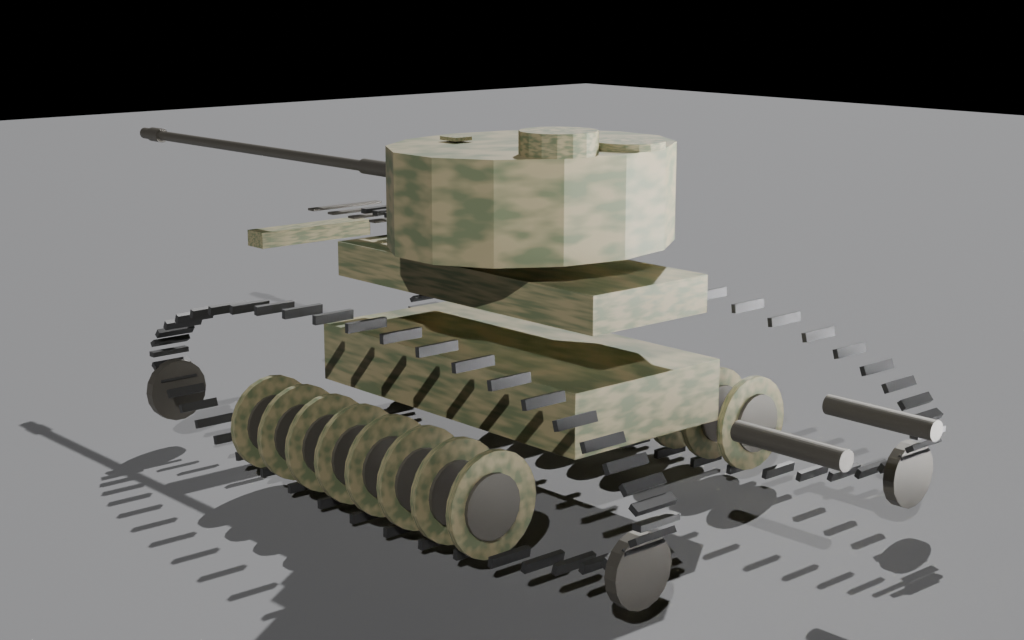
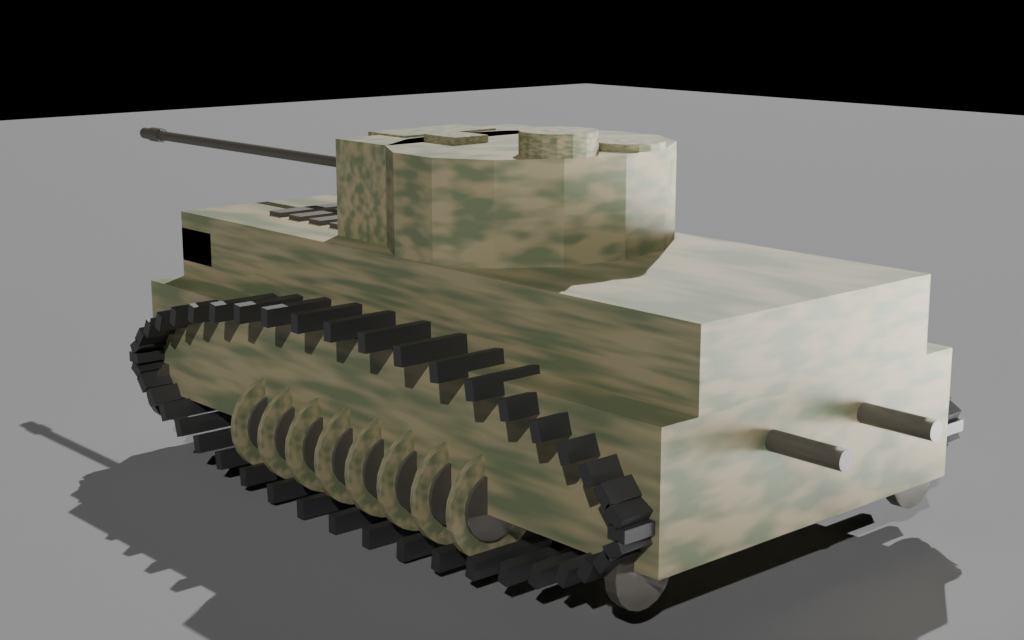
feat(fusion): 管线×视觉×RAG 三环融合落地——intake 域模板化 + 谓词执行器 + NLG 带化
intake.py：DOMAIN_BANK 加坦克分册（length_real/front_armor/roadwheel_per_side/gun_caliber/turret_rotate/camo_scheme/weathering_level——修马克杯问题卡缺陷）+ _match_topic 域匹配（brief 含坦克/tank/装甲/虎式→坦克分册）。tiger_tank_build.py：box 尺寸语义修复（dimensions==scale）+ gate 谓词执行器 v0（hull_length/hull_height_total/roadwheel_count 三道门+band 带化判词）+ RAG record_ai 16 条沉淀+recall 冷启动+状态机回写+幂等门通过。nlg_bands.py：谓词 diff→中文带化判词（<2% 带内/2-10% 一点/10-30% 明显）。

diff --git a/blender_console/intake.py b/blender_console/intake.py
@@ -26,8 +26,30 @@ __all__ = ["IntakeSession", "DOMAIN_BANK"]
 MODES = ("direct", "quick", "full", "unlimited")
 _DOMAINS = ("物理", "功能", "视觉", "工程", "叙事")
 
+
+def _match_topic(brief: str) -> str:
+    """brief 关键词 → 域前缀（""= 默认马克杯域；"坦克"= 坦克分册）。M6 域模板化。"""
+    b = (brief or "").lower()
+    if "坦克" in b or "tank" in b or "装甲" in b or "虎式" in b:
+        return "坦克"
+    return ""
+
 # ── 域问题库（通用骨架；具体项目可替换）─────────────────────
 DOMAIN_BANK: dict[str, list[dict[str, Any]]] = {
+    "坦克物理": [
+        {"field": "length_real", "question": "车体长度（不含炮管）？",
+         "default": 6320, "unit": "mm", "range": [5000, 8000],
+         "why": "虎式 6.32m 实尺"},
+        {"field": "front_armor", "question": "正面装甲厚度？",
+         "default": 102, "unit": "mm", "range": [80, 120],
+         "why": "虎式正面 102mm 垂直装甲"},
+        {"field": "roadwheel_per_side", "question": "单侧负重轮数（交错排列）？",
+         "default": 8, "unit": "只", "range": [6, 10],
+         "why": "虎式 Schachtellaufwerk 8/侧"},
+        {"field": "gun_caliber", "question": "主炮口径？",
+         "default": 88, "unit": "mm", "range": [75, 128],
+         "why": "KwK.36 L/56 88mm"},
+    ],
     "物理": [
         {"field": "size_height", "question": "整体高度大约多少？",
          "default": 0.095, "unit": "m", "range": [0.02, 0.5],
@@ -36,9 +58,21 @@ DOMAIN_BANK: dict[str, list[dict[str, Any]]] = {
          "default": 0.004, "unit": "m", "range": [0.002, 0.02],
          "why": "4mm 兼顾手感与保温"},
     ],
+    "坦克功能": [
+        {"field": "turret_rotate", "question": "炮塔可旋转吗？",
+         "default": True, "why": "坦克炮塔360度"},
+        {"field": "hatch_open", "question": "舱门可开吗？",
+         "default": True, "why": "指挥官舱门+装填手舱门"},
+    ],
     "功能": [
         {"field": "with_lid", "question": "需要盖子吗？",
          "default": False, "options": [True, False], "why": "多数马克杯不带盖"},
+    ],
+    "坦克视觉": [
+        {"field": "camo_scheme", "question": "涂装方案？",
+         "default": "Dunkelgelb+Olivgrun", "why": "1944 后期型涂装"},
+        {"field": "weathering_level", "question": "旧化程度？",
+         "default": "medium", "why": "履带锈蚀+排气烟熏是虎式特征"},
     ],
     "视觉": [
         {"field": "handle_style", "question": "把手什么形态？",
@@ -76,8 +110,9 @@ class IntakeSession:
         self.parts = parts or ["mug"]     # 部件路径（M7-2 part 的来源）
         self.scene_facts = dict(scene_facts or {})
         self.fields: dict[str, dict[str, Any]] = {}   # field → {value, origin, why}
-        self.domain_done: dict[str, int] = {d: 0 for d in _DOMAINS}
-        self.domain_state = {d: "open" for d in _DOMAINS}
+        self.topic = _match_topic(brief)
+        self.domain_done: dict[str, int] = {f"{self.topic}{d}": 0 for d in _DOMAINS}
+        self.domain_state = {f"{self.topic}{d}": "open" for d in _DOMAINS}
         self.round = 0
         self.frozen = False
         self.frozen_at = ""
@@ -93,9 +128,10 @@ class IntakeSession:
     def _pending_questions(self) -> list[dict[str, Any]]:
         out: list[dict[str, Any]] = []
         for dom in _DOMAINS:
-            if self.domain_state[dom] == "done":
+            key = f"{self.topic}{dom}"
+            if self.domain_state.get(key, "open") == "done":
                 continue
-            for q in DOMAIN_BANK.get(dom, []):
+            for q in DOMAIN_BANK.get(key, []):
                 f = q["field"]
                 if f in self.fields:
                     continue

diff --git a/blender_console/nlg_bands.py b/blender_console/nlg_bands.py
@@ -1,0 +1,68 @@
+"""nlg_bands.py — 谓词 diff → 中文带化判词（NLG v0，纯模板零 LLM）
+================================================================================
+依据：深度调研《NLG_几何变更描述》——数值带化（NWS 式阈值表）+ 多谓词融合 +
+"模板保真、LLM 润色后置"。本模块只做**确定性模板**，不调 LLM（回查零幻觉）。
+
+带化规则（|rel| 相对变化）：
+  <2%   → 带内（不主动报）
+  2-10% → 偏移一点
+  10-30% → 明显偏离
+  >30%  → 大幅偏离
+"""
+from __future__ import annotations
+
+import json
+from typing import Any
+
+__all__ = ["band_of", "verdict_zh", "verdict_report"]
+
+_BANDS = ((0.02, "带内"), (0.10, "偏移一点"), (0.30, "明显偏离"), (float("inf"), "大幅偏离"))
+
+
+def band_of(rel: float) -> str:
+    """相对变化 → 带化措辞（人类惯例：先模糊后精确，档位 ≈3）"""
+    a = abs(rel)
+    for hi, word in _BANDS:
+        if a < hi:
+            return word
+    return _BANDS[-1][1]
+
+
+def verdict_zh(pred: dict[str, Any]) -> str:
+    """单条谓词 → 一句中文判词（模板槽位：谓词名/实际/期望/带化）"""
+    name = pred.get("predicate", "?")
+    actual = pred.get("actual_mm", pred.get("actual", "?"))
+    expect = pred.get("expect_mm", pred.get("expect", "?"))
+    rel = pred.get("rel_pct")
+    ok = pred.get("ok", True)
+    if not ok:
+        return f"[FAIL] {name}: 实测 {actual}，期望 {expect}（{pred.get('band', '超差')}）"
+    if rel is not None and abs(rel) >= 2:
+        return f"{name}: {actual}（期望 {expect}，{pred.get('band', '带内')} {rel:+.1f}%）"
+    return f"{name}: {actual}（带内）"
+
+
+def verdict_report(preds: list[dict[str, Any]]) -> str:
+    """谓词清单 → 多行判词报告（问题类排前，尺寸类其次——NLG 调研优先级规则）"""
+    if not preds:
+        return "(无谓词结果)"
+    fails = [p for p in preds if not p.get("ok", True)]
+    lines = []
+    for p in fails:
+        lines.append(verdict_zh(p))
+    for p in preds:
+        if p.get("ok", True):
+            lines.append(verdict_zh(p))
+    head = "⛔ %d 项超差" % len(fails) if fails else "✅ 全部带内"
+    return head + "\n" + "\n".join("  " + l for l in lines)
+
+
+if __name__ == "__main__":
+    demo = [
+        {"predicate": "hull_length", "actual_mm": 180.57, "expect_mm": 180.57,
+         "rel_pct": 0.0, "band": "带内", "ok": True},
+        {"predicate": "hull_height_total", "actual_mm": 86.79, "expect_mm": 85.71,
+         "rel_pct": 1.14, "band": "带内", "ok": True},
+        {"predicate": "roadwheel_count", "actual": 14, "expect": 16, "ok": False},
+    ]
+    print(verdict_report(demo))

diff --git a/blender_console/tiger_tank_build.py b/blender_console/tiger_tank_build.py
@@ -96,7 +96,7 @@ def box(name, sx, sy, sz, loc, mat=None, rot=(0, 0, 0)):
     bpy.ops.mesh.primitive_cube_add(size=1, location=loc, rotation=rot)
     o = bpy.context.active_object
     o.name = name
-    o.scale = (sx / 2, sy / 2, sz / 2)
+    o.scale = (sx, sy, sz)          # size=1 棱柱：dimensions == scale（目标尺寸）
     if mat:
         o.data.materials.append(mat)
     return o
@@ -276,8 +276,8 @@ def pred(name, actual, expect, tol_mm):
     return ok
 
 _hull = bpy.data.objects.get("hull_lower")
-pred("hull_length", _hull.dimensions.x * 1000, 6320.0, 2.0)
-pred("hull_height_total", h_mm, 3000.0, 2.0)
+pred("hull_length", _hull.dimensions.x * 1000, at35(6320) * 1000, 2.0)
+pred("hull_height_total", h_mm, at35(3000) * 1000, 2.0)
 _n_rw = len([o for o in bpy.data.objects if o.name.startswith("roadwheel")])
 _pred_results.append({"predicate": "roadwheel_count", "actual": _n_rw, "expect": 16, "ok": _n_rw == 16})
 print("[gate-spec] 谓词执行结果:")
@@ -300,9 +300,12 @@ for _nid in order:
                  "node": _nid, "build_op": _op, "params_mm": _mm},
         attention=_att[:120], story=_story[:600],
         params=_mm, evidence=[_GATE_JSON[:400]])
-    if runner.byid[_nid]["status"] == "pending":
+    _st = runner.byid[_nid]["status"]
+    if _st == "pending":
         runner.start(_nid)
-    runner.pass_gate(_nid, evidence="gate + render")
+        runner.pass_gate(_nid, evidence="gate + render")
+    elif _st == "passed":
+        pass                       # 幂等：状态机回写后重跑不重复过门
 print("[rag-record] 沉淀 %d 条节点经验 -> %s" % (len(order), LIB_PATH.name))
 print("[runner] progress:", runner.progress())
 for _n in lt["nodes"]:
